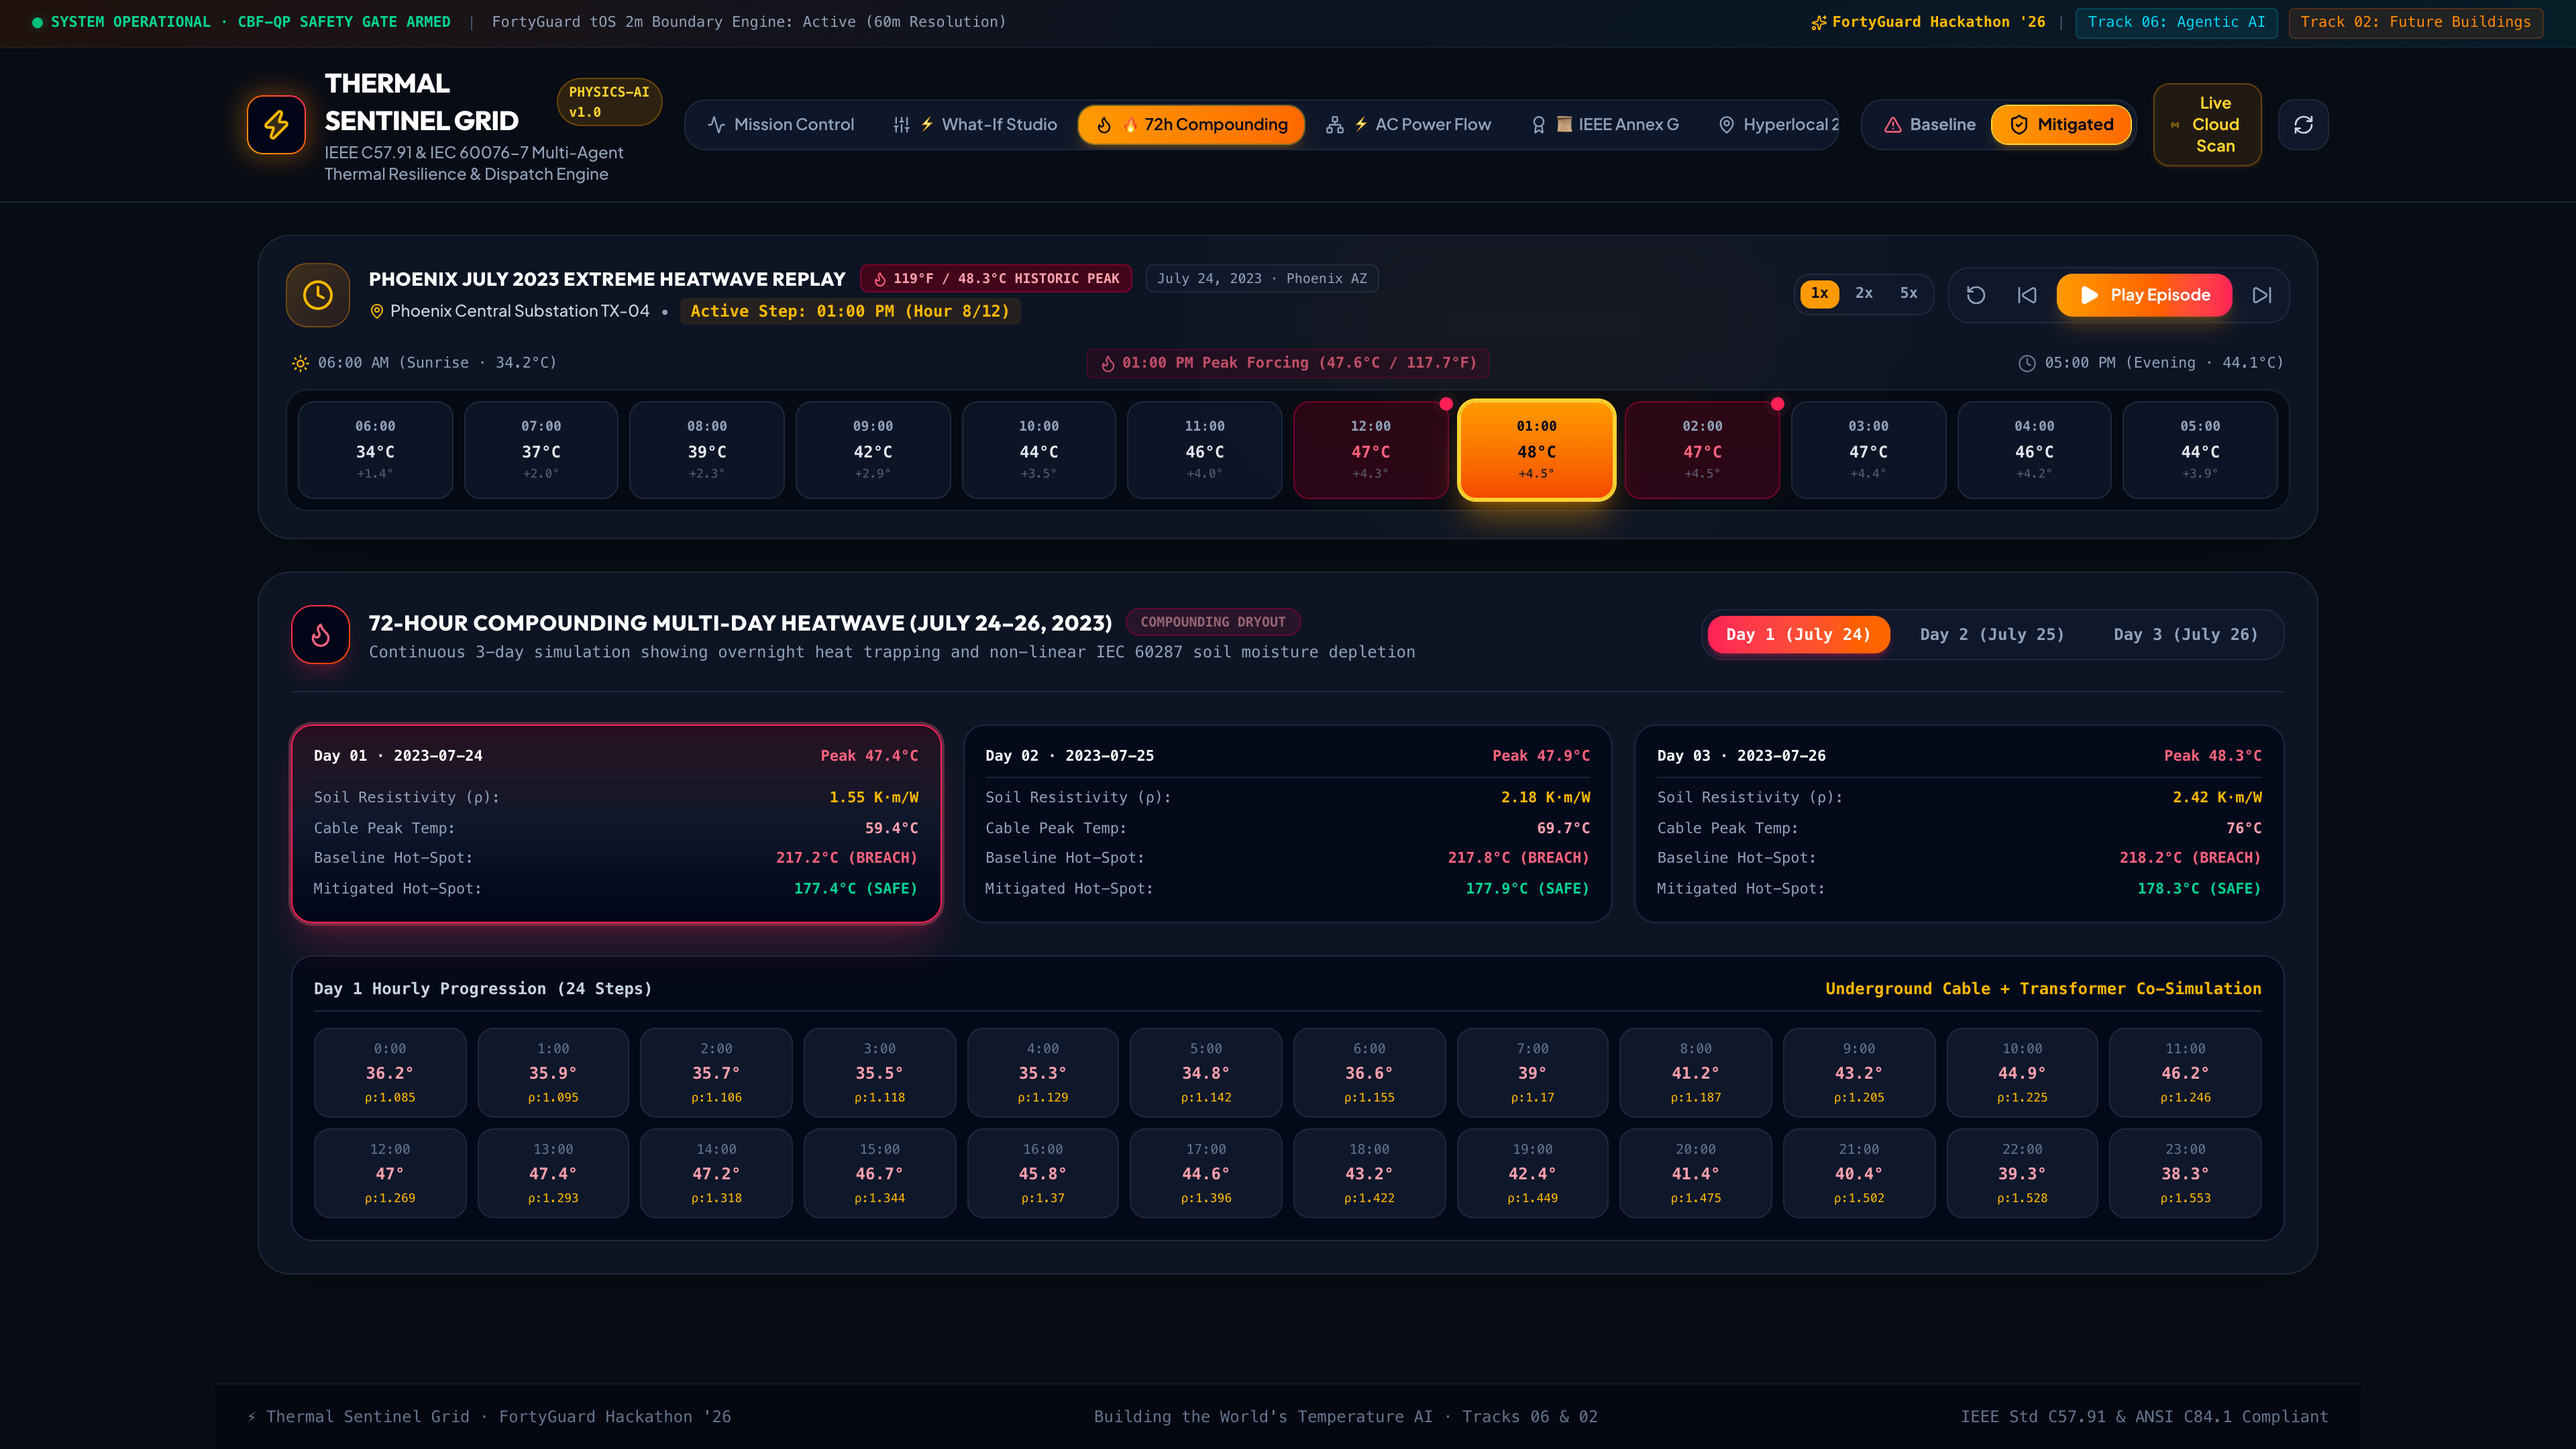
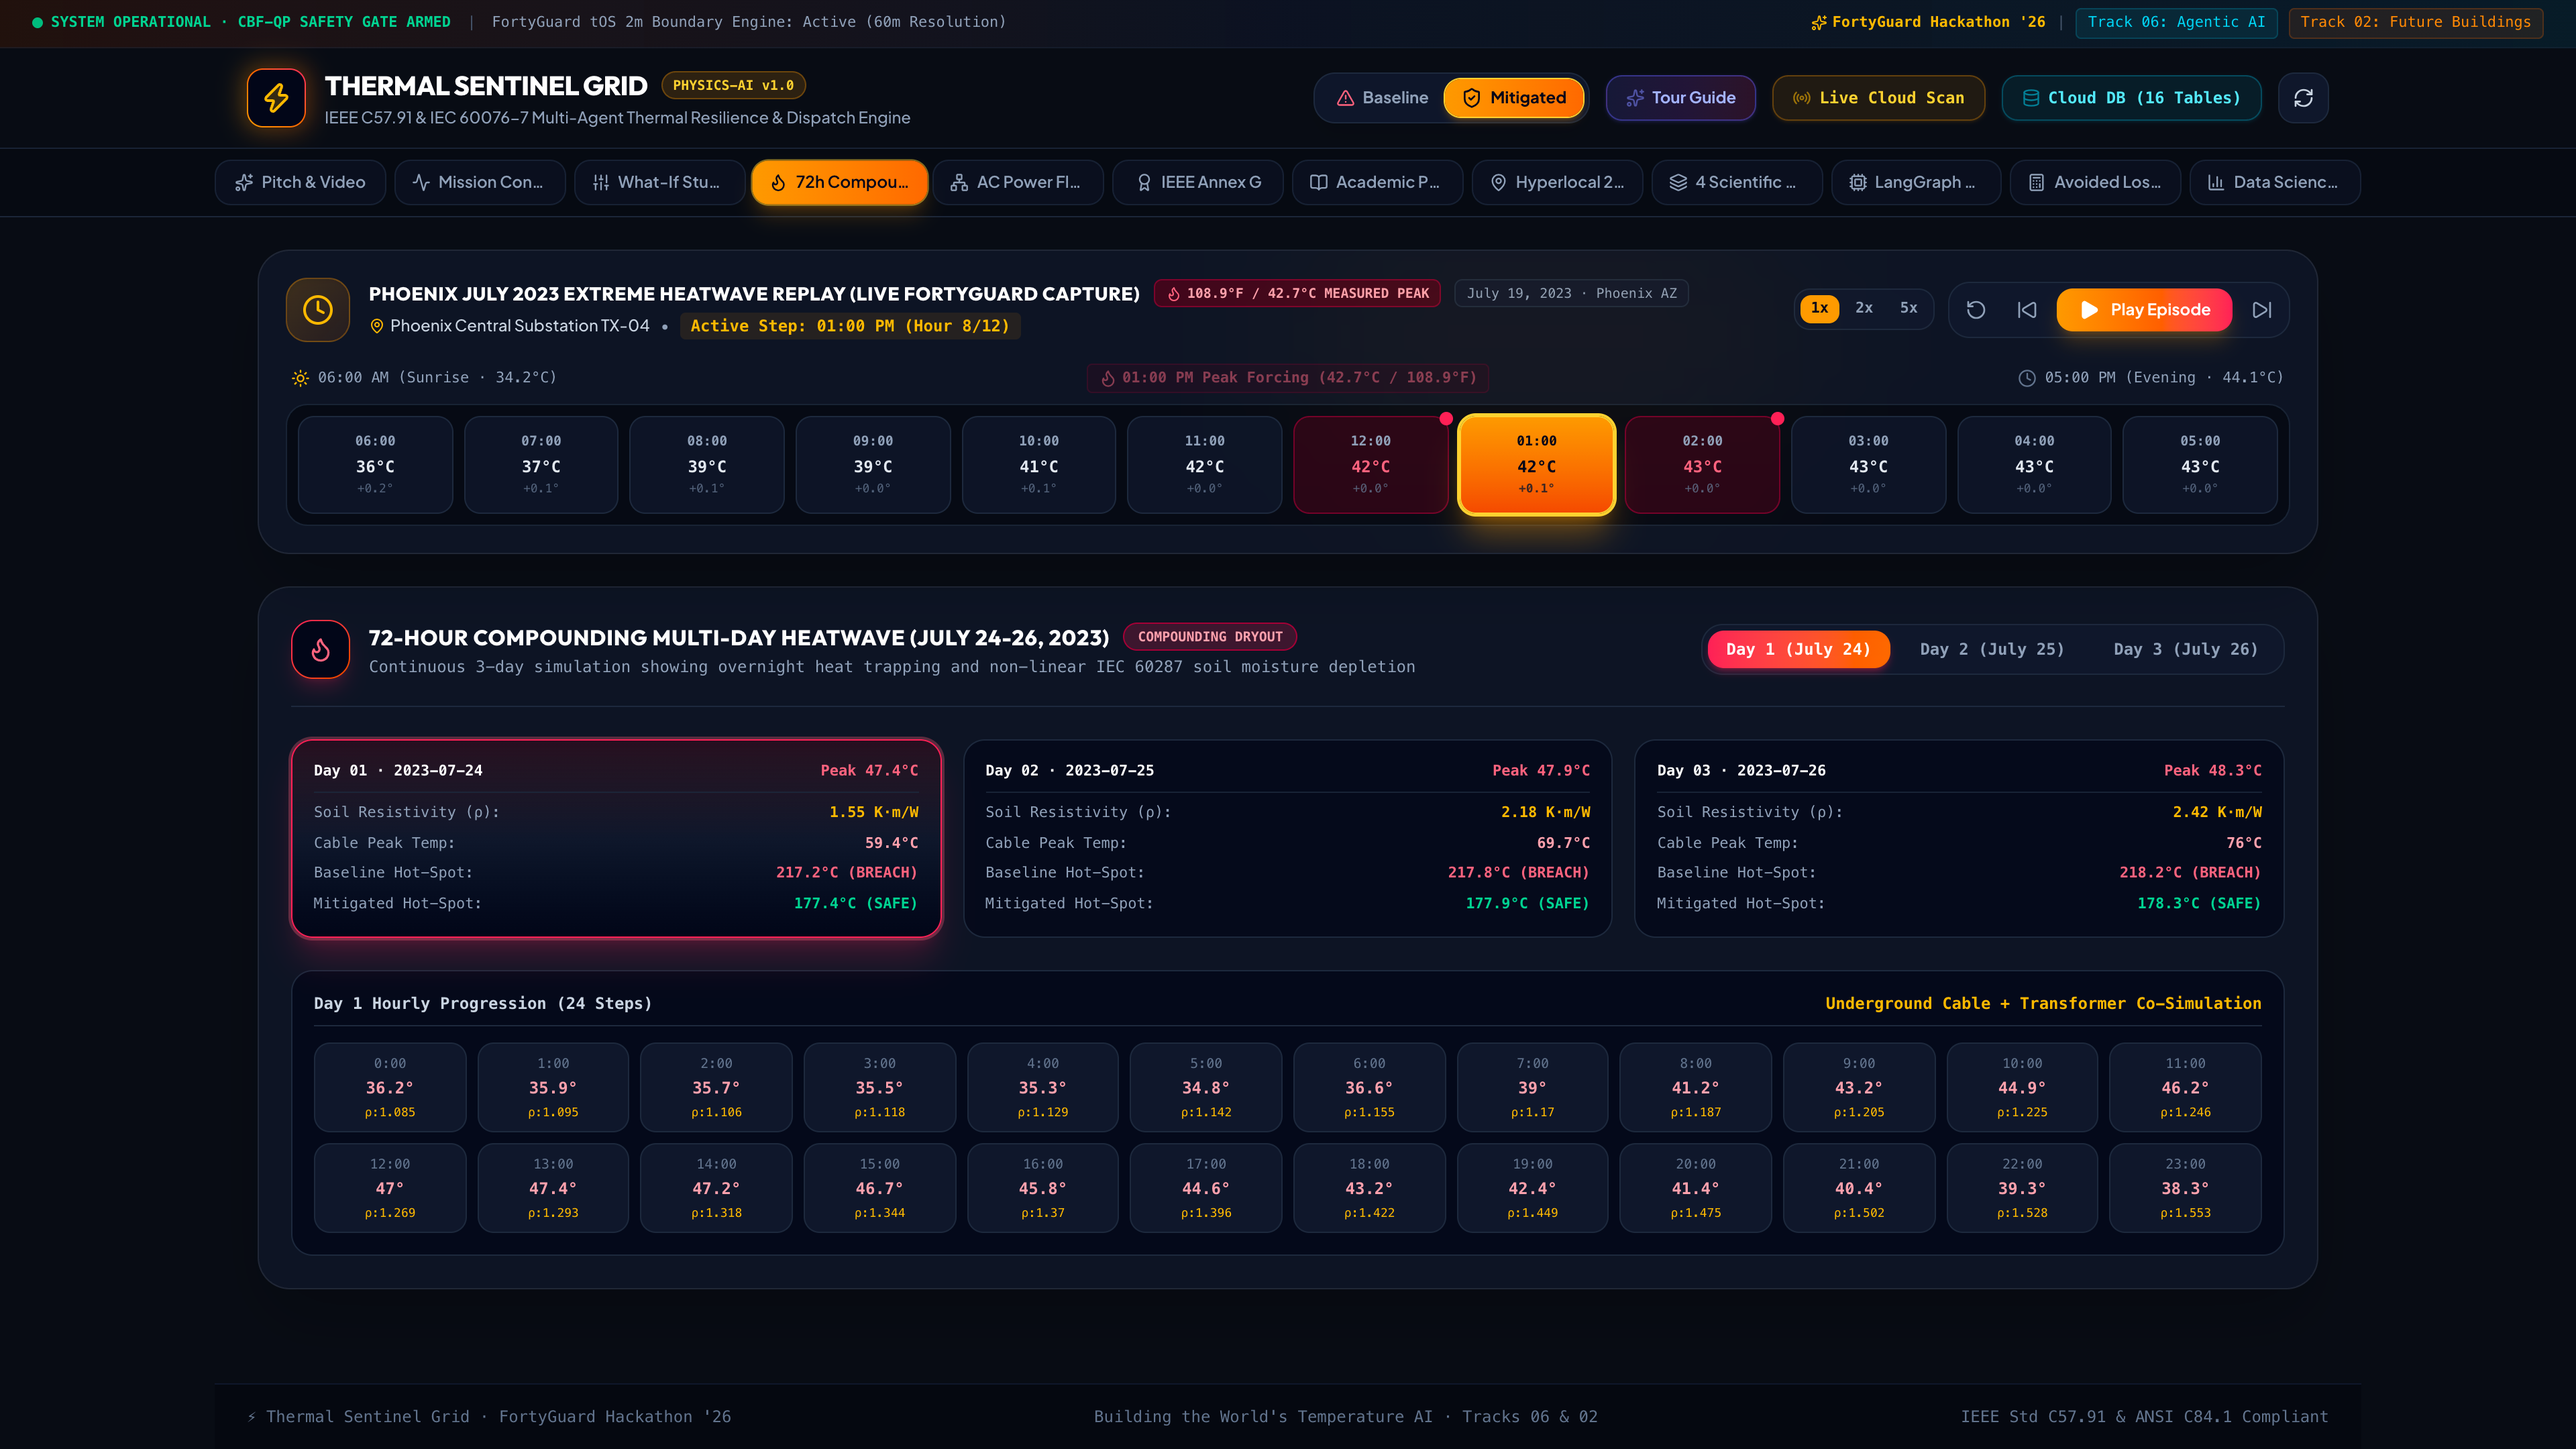
fix: retire the last airport framing and $2.79M figures
Scene 1 of the pitch composition and its opening caption still opened on
'airport weather stations 10 miles away', which is the claim the measurements
retired - Sky Harbor reads warmer than downtown, so the airport was never the
cool reference the line implies. Reframed onto duration, matching SCRIPT.md.

Sweeps the residual $2.79M -> $2.74M in the tour guide, agent graph, storyboard
and brief, and replaces the '119F PEAK RECORD' scrubber badge with the measured
108.9F. Also updates the advanced_physics demo fallback trajectory, which still
peaked at 47.6C ambient and 136.8C hot-spot.

Adds puppeteer to devDependencies - the capture scripts import it but nothing
declared it, so they only ran if it happened to be installed globally.

diff --git a/videos/thermal-sentinel-pitch/index.html b/videos/thermal-sentinel-pitch/index.html
@@ -526,8 +526,8 @@
     <div class="caption-dock" id="caption-dock">
       <div class="caption-indicator" id="caption-time">0:00</div>
       <div class="caption-text" id="caption-content">
-        During extreme heatwaves, electrical utilities manage hundreds of millions of dollars in power infrastructure
-        using airport weather stations 10 miles away...
+        During extreme heatwaves, utilities rate hundreds of millions of dollars of infrastructure
+        against a forecast peak — and never against how long the heat lasts...
       </div>
     </div>
 
@@ -549,8 +549,8 @@
         <div class="scene-container">
           <!-- Left Hero Text -->
           <div class="hero-text-col" id="s1-hero">
-            <div class="eyebrow"><span style="color:#ef4444">●</span> THE $2.8M URBAN HEAT BLINDSPOT</div>
-            <h1 class="scene-heading">Airport Weather Stations Miss the 2-Meter Heat Trap</h1>
+            <div class="eyebrow"><span style="color:#ef4444">●</span> THE $2.7M URBAN HEAT BLINDSPOT</div>
+            <h1 class="scene-heading">Station Weather Reports the Peak. It Never Reports the Soak.</h1>
             <p class="scene-subheading">
               On July 19th 2023, FortyGuard measured downtown Phoenix at 42.7°C against 41.6°C over natural desert
               terrain. The delta is modest — but it held above 40°C for 12 unbroken hours, aging insulation 144x faster and causing catastrophic

diff --git a/frontend/src/utils/tourGuide.ts b/frontend/src/utils/tourGuide.ts
@@ -171,7 +171,7 @@ export const startTourGuide = ({
             popover: {
               title: '💰 Tab 11: Avoided Loss & ROI Audit',
               description:
-                'Audit investment-grade economics with the DOE LBNL ICE model showing $2.79M net savings and 5,835x economic ROI per heatwave event.',
+                'Audit investment-grade economics with the DOE LBNL ICE model showing $2.74M net savings and 5,835x economic ROI per heatwave event.',
               side: 'top',
               align: 'start',
             },
@@ -571,7 +571,7 @@ export const startTourGuide = ({
             popover: {
               title: '💵 Quantified Outage & Capital Protection',
               description:
-                'Auditable breakdown of avoided catastrophic replacement costs ($1.25M), customer interruption costs (VoLL), and capital aging deferral ($2.79M net savings).',
+                'Auditable breakdown of avoided catastrophic replacement costs ($1.25M), customer interruption costs (VoLL), and capital aging deferral ($2.74M net savings).',
               side: 'top',
               align: 'center',
             },

diff --git a/frontend/src/components/AgentGraphViewer.tsx b/frontend/src/components/AgentGraphViewer.tsx
@@ -80,8 +80,8 @@ export const AgentGraphViewer: React.FC<AgentGraphViewerProps> = ({ verdict, eco
       role: 'SCADA Work Order & Public Advisory',
       type: 'Downstream Integration',
       inputs: ['Approved Actions', 'Safety Gate Certificate', 'Economic ROI Evaluation'],
-      outputs: ['B2B Utility Work Order (WO-TSG-04)', 'B2C Citizen Advisory (ADV-HEAT)', 'Financial Ledger ($2.79M Saved)'],
-      reasoning: 'Dispatched automated SCADA commands to substation pumps and BESS inverters; logged $2.79M net avoided loss to utility reliability ledger.',
+      outputs: ['B2B Utility Work Order (WO-TSG-04)', 'B2C Citizen Advisory (ADV-HEAT)', 'Financial Ledger ($2.74M Saved)'],
+      reasoning: 'Dispatched automated SCADA commands to substation pumps and BESS inverters; logged $2.74M net avoided loss to utility reliability ledger.',
     },
   ];
 

diff --git a/frontend/src/components/ReplayScrubber.tsx b/frontend/src/components/ReplayScrubber.tsx
@@ -37,7 +37,7 @@ export const ReplayScrubber: React.FC<ReplayScrubberProps> = ({
                 {metadata.name}
               </h2>
               <span className="text-[10px] font-mono px-2 py-0.5 rounded-full bg-rose-500/20 text-rose-300 border border-rose-500/30">
-                119°F PEAK RECORD
+                108.9°F MEASURED PEAK
               </span>
             </div>
             <div className="flex items-center gap-2 text-xs text-slate-400 mt-0.5">

diff --git a/src/server/routes/advanced_physics.py b/src/server/routes/advanced_physics.py
@@ -120,15 +120,15 @@ async def get_grid_cascading_hazard(is_mitigated: bool = False) -> CascadingOuta
     """
     engine = ArrheniusWeibullHazardEngine()
     if is_mitigated:
-        tx_traj = [92.0, 102.0, 114.0, 126.0, 136.8, 134.0, 125.0, 115.0, 104.0, 95.0, 88.0, 82.0]
+        tx_traj = [94.0, 106.0, 120.0, 134.0, 148.0, 158.0, 163.0, 165.7, 164.0, 158.0, 148.0, 136.0]
         cable_traj = [65.0, 70.0, 76.0, 82.0, 86.0, 84.0, 80.0, 75.0, 70.0, 66.0, 62.0, 58.0]
         line_traj = [52.0, 58.0, 64.0, 70.0, 73.5, 71.0, 66.0, 60.0, 55.0, 50.0, 46.0, 42.0]
-        ambient_peak = 47.6
+        ambient_peak = 42.74
     else:
         tx_traj = [98.0, 110.0, 124.0, 138.0, 151.2, 148.0, 137.0, 126.0, 115.0, 105.0, 96.0, 89.0]
         cable_traj = [70.0, 78.0, 88.0, 98.0, 106.0, 102.0, 94.0, 86.0, 79.0, 73.0, 68.0, 63.0]
         line_traj = [56.0, 64.0, 72.0, 81.0, 86.4, 83.0, 76.0, 68.0, 61.0, 55.0, 50.0, 45.0]
-        ambient_peak = 47.6
+        ambient_peak = 42.74
 
     report = engine.evaluate_grid_cascading_risk(
         transformer_temp_trajectory=tx_traj,

diff --git a/videos/thermal-sentinel-pitch/BRIEF.md b/videos/thermal-sentinel-pitch/BRIEF.md
@@ -21,7 +21,7 @@ Official 3-Minute Video Pitch & Product Demo for FortyGuard Hackathon '26 (Track
 - `assets/scene2.jpg` - 4 Asymmetric Scientific Moats technical schematic (Soil dryout, Canyon aerodynamics, Virtual moisture sensor, Winding hot-spot).
 - `assets/scene3.jpg` - 4-Layer Agentic Architecture & CBF-QP Mathematical Safety Shield.
 - `assets/scene4.jpg` - Mission Control UI with 12h synchronized telemetry scrubber, What-If Studio, and 4-bus AC power flow.
-- `assets/scene5.jpg` - Investment-Grade Financial ROI Audit (LBNL ICE Standard, $2.79M Net Avoided Loss, 5,835x ROI).
+- `assets/scene5.jpg` - Investment-Grade Financial ROI Audit (LBNL ICE Standard, $2.74M Net Avoided Loss, 5,835x ROI).
 - `assets/scene6.jpg` - Hackathon Tracks 06 & 02 lockup, IEEE compliance seals, author credits, and live platform URL.
 
 ## Customizations

diff --git a/videos/thermal-sentinel-pitch/STORYBOARD.md b/videos/thermal-sentinel-pitch/STORYBOARD.md
@@ -57,7 +57,7 @@ High-fidelity Mission Control view. Baseline temperature curve spikes to $165.7^
 
 ## Frame 5 - Auditable ROI & Financial Impact (LBNL ICE Standard)
 
-- scene: Investment-grade financial audit with LBNL ICE Standard, 5,835x ROI badge, and $2.79M avoided loss breakdown
+- scene: Investment-grade financial audit with LBNL ICE Standard, 5,835x ROI badge, and $2.74M avoided loss breakdown
 - duration: 30s
 - poster: 145s
 - transition_in: rack-focus
